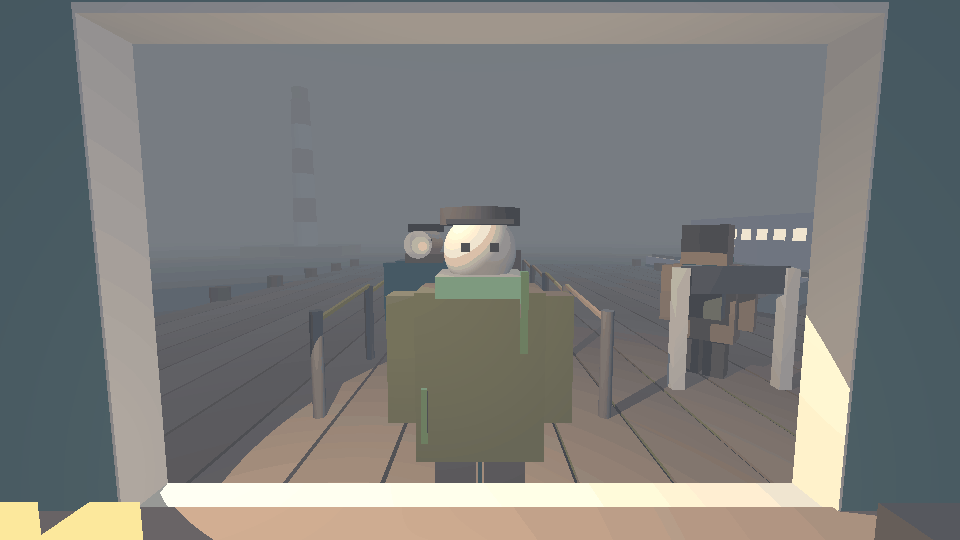
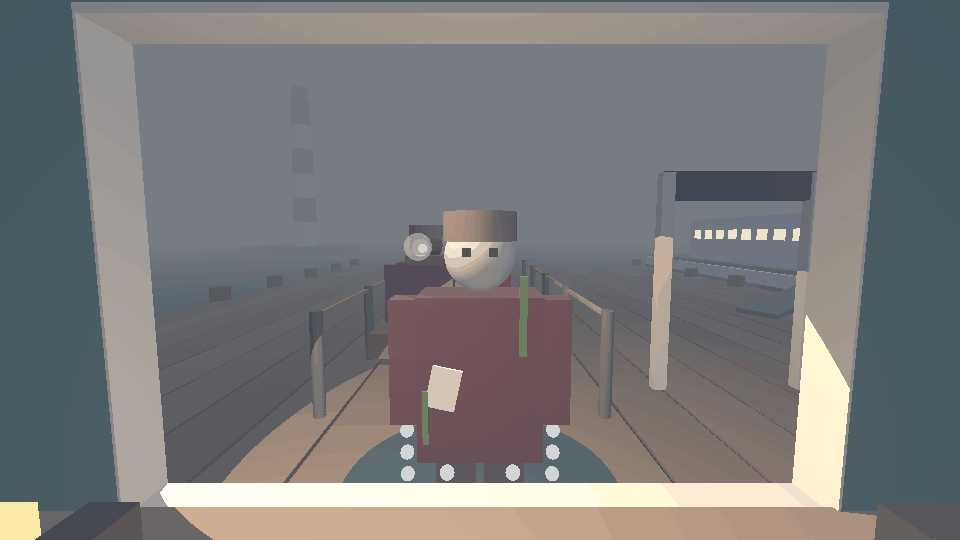
Refresh the Last Ferry previews after the review fixes
Claude-Session: https://claude.ai/code/session_01CW3XUa2XzMpzmA7L9Lm82P

diff --git a/games/last-ferry/README.md b/games/last-ferry/README.md
@@ -40,10 +40,12 @@ will render the fog, light, materials and particles very differently.
 | ![Booth view with a living passenger](docs/preview-living.png) | ![Booth view with a drowned passenger](docs/preview-drowned.png) |
 
 What they show:
-- **Left:** the regular's breath fogs in front of their face. The lighthouse is
-  far off to the left, and the *Petrel*'s lit cabin is on the right.
-- **Right:** a drowned passenger is pale, with a darkened coat and seaweed, and
-  no breath. The previous passenger heads through the gate to the gangway.
+- **Left:** the regular's breath fogs in front of their face, and their shadow
+  falls on the planks behind and to their right. The lighthouse is far off to
+  the left, and the *Petrel*'s lit cabin is on the right.
+- **Right:** a drowned passenger is pale, with a darkened coat, seaweed, and no
+  breath. Water drips from their cuffs and coat, and a puddle spreads around
+  them. There is a torn ledger page tucked in their coat.
 
 ![The lamp's shadow tinted red, with the HUD regions outlined](docs/preview-shadow-and-hud.png)
 
